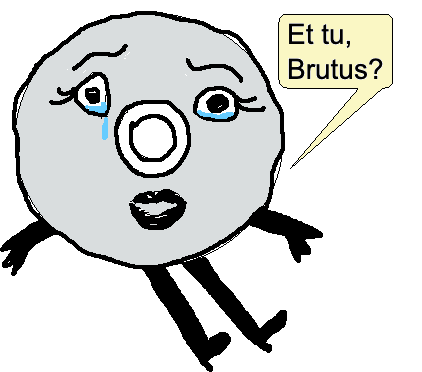
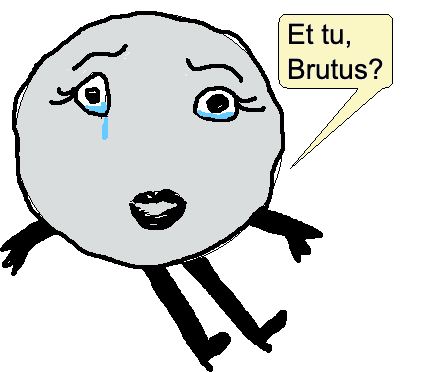
KILL DISKETTE: paint over the drawn Diskette's centre hole
make-art.py fills the hole and its rings with the disc's grey in all six
drawings (same spot in each), so her face is plain disc.

Claude-Session: https://claude.ai/code/session_019PfJGXSpEo2CxpEbR7oiqv

Changed region(s): [[0.2464, 0.2661, 0.4621, 0.5027]]

diff --git a/tools/skunkpets-redux/kill-diskette/make-art.py b/tools/skunkpets-redux/kill-diskette/make-art.py
@@ -2,7 +2,8 @@
 # writes them next to the minigame (src/building/skunkpets/minigames/kill-diskette/):
 #   diskette.png              the usual one
 #   diskette-<name>.png       the variants she sometimes pops up as
-# The white paper around her is made transparent (a flood fill from the
+# The disc's centre hole (white with black rings) is painted over in the
+# disc's grey (Leo asked for it gone). The white paper around her is made transparent (a flood fill from the
 # edges, so her eyes and the hole in the middle stay white), and every
 # picture is cropped to the same box, so she's the same size and in the same
 # place whichever one pops up.
@@ -23,8 +24,15 @@ PICTURES = {
     'diskette-stop.png': 'variant-stop.png',
 }
 
+# Where the centre hole is in every drawing (same canvas): centre and radii, px.
+HOLE = (248, 180, 45, 46)
+DISC_GREY = (217, 221, 222, 255)
+
 def cut_out(path):
     a = np.array(Image.open(path).convert('RGBA'))
+    yy, xx = np.mgrid[0:a.shape[0], 0:a.shape[1]]
+    cx, cy, rx, ry = HOLE
+    a[((xx - cx) / rx) ** 2 + ((yy - cy) / ry) ** 2 <= 1] = DISC_GREY
     h, w = a.shape[:2]
     light = a[:, :, :3].astype(int).min(axis=2) > 200
     bg = np.zeros((h, w), bool)
